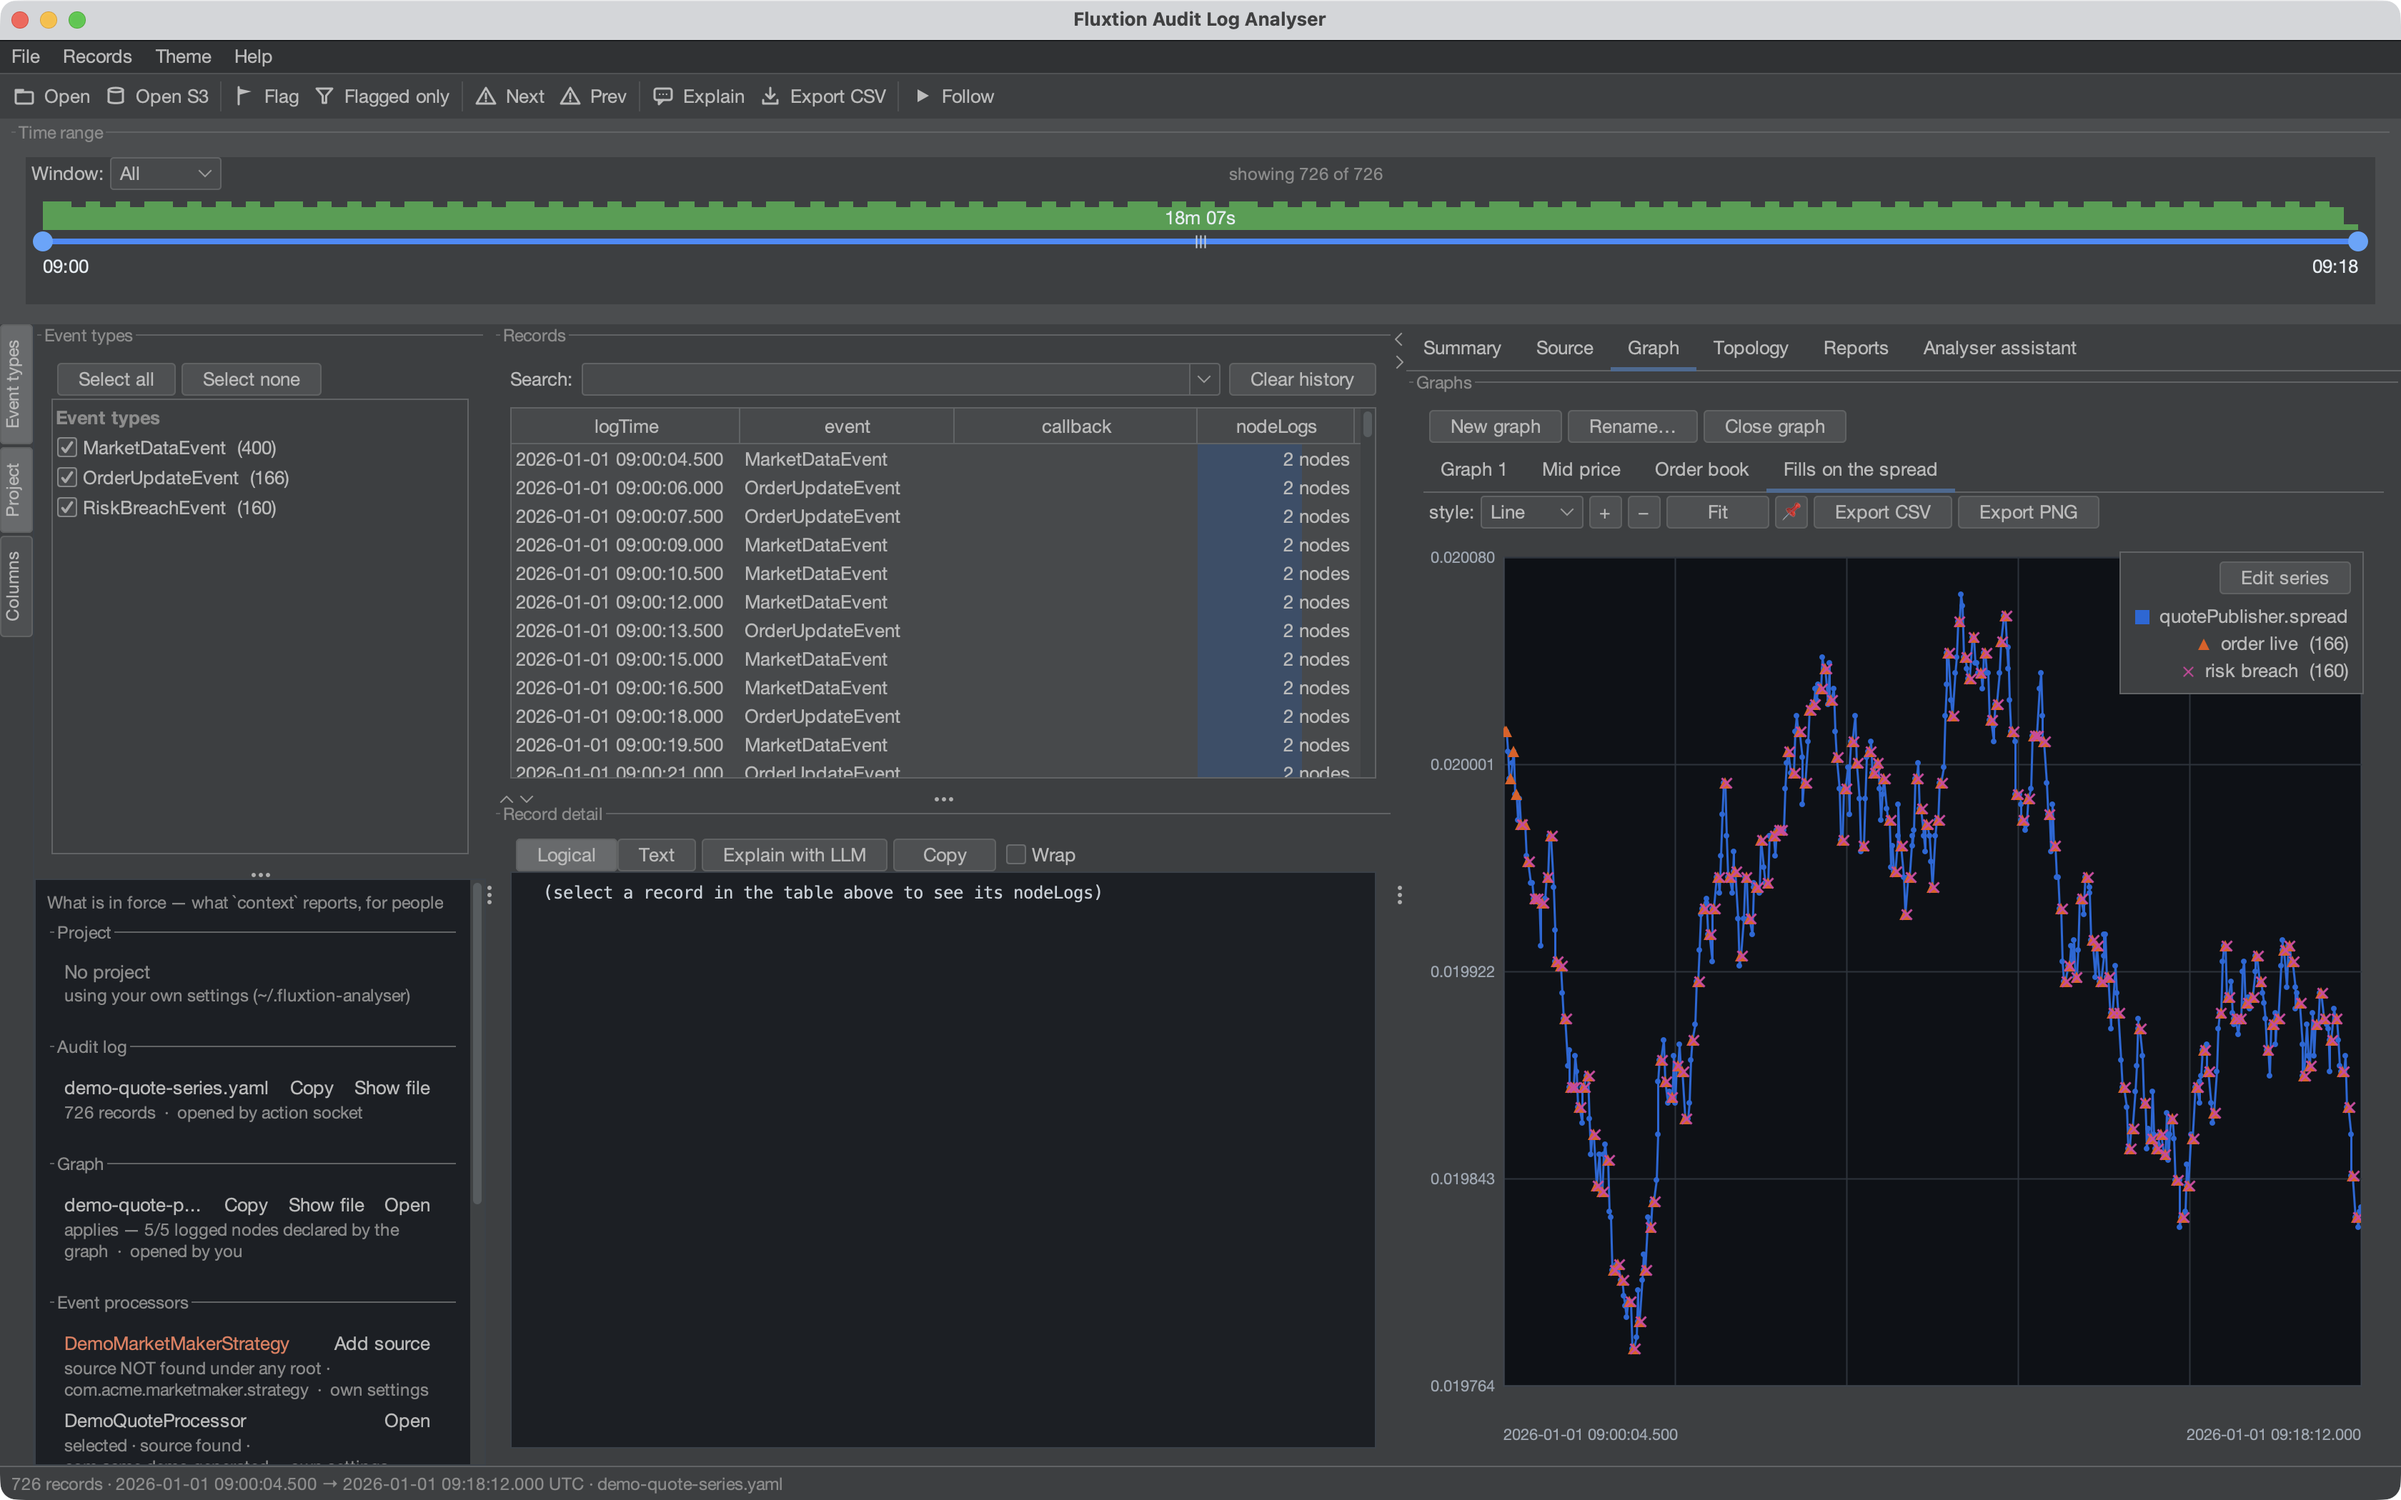
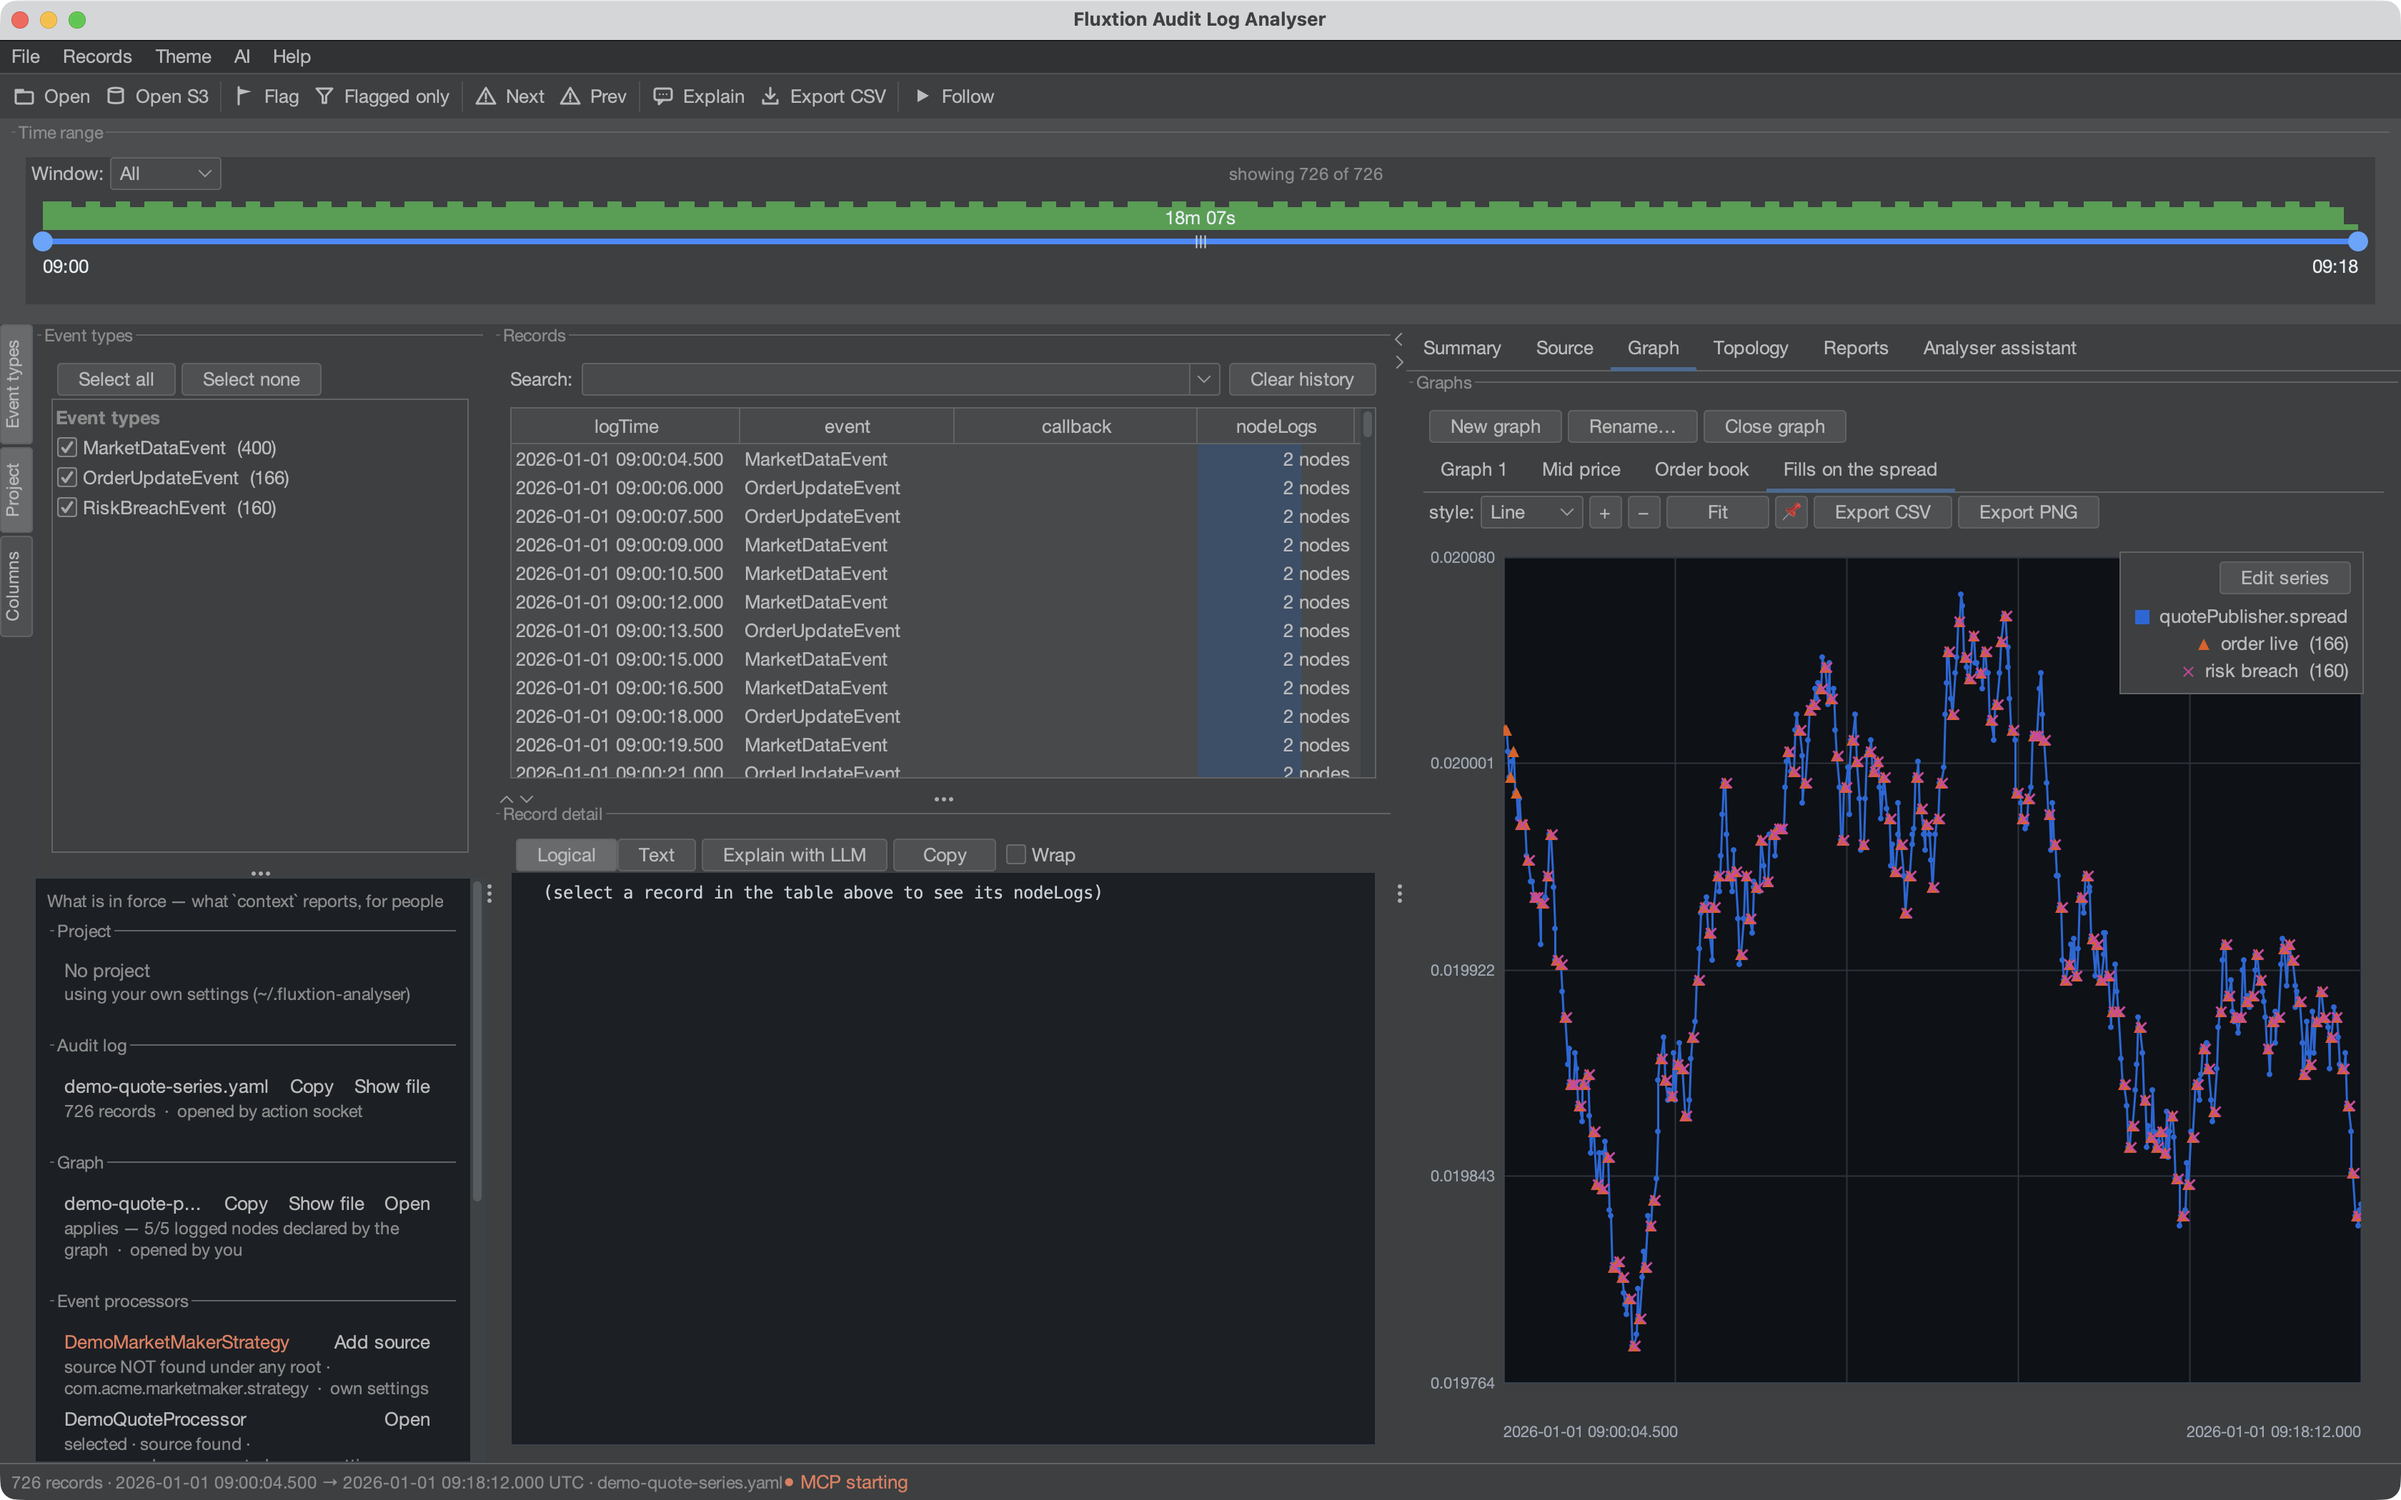
review M43: sound, D-AI5 endorsed with a stronger argument — and M43.6 finished in review (stale-jar catch, capture moved after project relaunch, ai-menu.png read + referenced); M33.7 report SHAs re-frozen post-rebase

diff --git a/tools/capture-docs.py b/tools/capture-docs.py
@@ -590,12 +590,14 @@ def main():
     profile = make_demo_project()
     ep = launch("Light")
     menu_capture(ep, "File", "projects-file-menu.png")
-    # M43.6: the AI menu, with a project open so Runbooks…/Domain glossary… are ENABLED — the shot has to
-    # show the working state, not the greyed one a reader would take for the feature being unavailable
-    menu_capture(ep, "AI", "ai-menu.png")
 
     ep = launch("Light", project=profile)      # relaunch WITH the project active
     seed(ep)
+    # M43.6: the AI menu, with a project open so Runbooks…/Domain glossary… are ENABLED — the shot has to
+    # show the working state, not the greyed one a reader would take for the feature being unavailable.
+    # (Found in review: this call originally sat BEFORE the project relaunch, so the shot showed exactly
+    # the greyed state the comment promised to avoid.)
+    menu_capture(ep, "AI", "ai-menu.png")
     act(ep, "goto", {"recordIndex": 3, "reveal": True})
     capture(ep, "projects-active.png")
     # Working with AI ▸ runbooks: the Project panel's Project section with the runbook pointer, the glossary and

diff --git a/docs/specs/tracker.md b/docs/specs/tracker.md
@@ -346,11 +346,12 @@ already writes them.
 - Slices: **.1** ☑ the menu · **.2** ☑ `runbook.N.description` end to end (= M38.8) · **.3** ☑ *Runbooks…*
   through `Runbooks.refuse` · **.4** ☑ the skill-shape prefill (`SkillFrontmatter`) · **.5** ☑ *Domain
   glossary…* · **.7** ☑ *Find skills…* — discovery that OFFERS (M35.4), bounded, inside the project,
-  declared ones marked not hidden · **.6** ◧ the capture step is IN the harness (`menu_capture(ep, "AI", "ai-menu.png")`, with a
-  project open so the pointer items show enabled rather than greyed); the image itself needs a run on a
-  machine with Screen Recording permission. The docs deliberately do NOT reference it yet — `mkdocs
-  --strict` fails on a missing image, which is the gate working, and shipping a broken image to say a
-  feature exists would be worse than saying nothing. **D-AI9** ☑ the status
+  declared ones marked not hidden · **.6** ☑ _(finished in review, 2026-08-28)_ the capture ran on the
+  owner's machine against a freshly built jar — the first run silently used a stale `target/` jar with no
+  AI menu, so the harness's own "no menu 'AI'" refusal was the gate working — and the `menu_capture` call
+  was moved AFTER the project relaunch (it sat before it, so the shot showed the greyed state its own
+  comment promised to avoid). `ai-menu.png` is read, referenced from *Working with AI ▸ Runbooks*, and
+  `mkdocs --strict` passes. **D-AI9** ☑ the status
   light: three levels and **no red** — nothing in the set is broken (off is a CHOICE, another window is a
   SURPRISE), so red stays unspent for a real fault; and "tested" is deliberately absent, because a probe
   is true only at the instant it ran and a stale green tick asserts what it does not know.

diff --git a/docs/site/ai-and-runbooks.md b/docs/site/ai-and-runbooks.md
@@ -176,6 +176,7 @@ through version control, and the person who approves the commit is the person th
 
 ## Managing pointers from the app
 
+![The AI menu with a project open: connect a client, the MCP toggle, runbook and glossary pointers, the exchange directory](assets/ai-menu.png)
 
 *AI ▸ Runbooks…* and *AI ▸ Domain glossary…* add and remove the pointers a project declares, so you no
 longer have to hand-edit the profile. They store a **location** and, for a runbook, one line saying when
